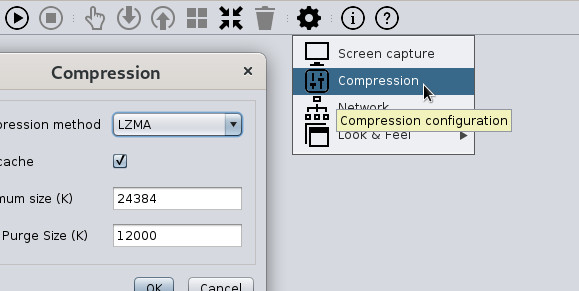
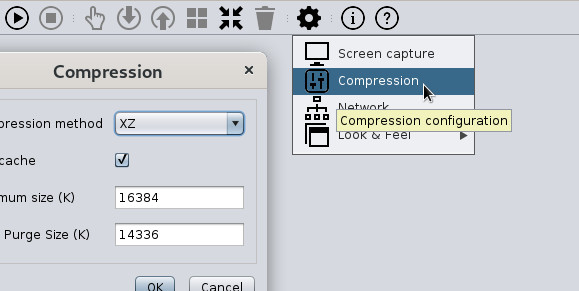
Updated documentation

diff --git a/docs/quickstart.html b/docs/quickstart.html
@@ -91,14 +91,14 @@
         <p>
             <img src="assistant_capture_settings.jpg" alt="Dayon! Assistant: Capture Settings">
         <p>
-            You can then setup the <b>compression</b> method; three methods are available: ZIP, BZIP2 and LZMA. BZIP2
-            and LZMA should give a better compression ratio but requires more CPU as they're much more complicated than
-            ZIP and are currently implemented in JAVA (ZIP is being implemented using some native code in the JDK).
+            You can then setup the <b>compression</b> method; two methods are available: ZIP and XZ. XZ
+            will obtain a (much) better compression ratio but requires more CPU and RAM as it's much more complicated
+            than ZIP and is implemented in JAVA (ZIP is being implemented using some native code in the JDK).
         <p>
             In addition a <b>cache</b> is used that allows for not sending many times the same bitmap as for example
             when opening and navigating menus (i.e., what's under the menus are not sent more than once). The screen is
-            divided into many tiles, each one being
-            possibly cached. You've to define the maximum number of tiles in the cache. Note that a tile is currently
+            divided into many tiles, each one being possibly cached.
+            You've to define the maximum number of tiles in the cache. Note that a tile is currently
             32x32 pixels of 256 levels, that is 1K.
         <p>
             <img src="assistant_compression_settings.jpg" alt="Dayon! Assistant : Compression Settings">

diff --git a/docs/de_support.html b/docs/de_support.html
@@ -25,9 +25,8 @@
             Posten Sie eine Frage oder erfassen Sie ein Issue auf <a href="https://github.com/retgal/dayon/issues">GitHub</a>.
         <h3>Bekannte Einschränkungen</h3>
         <ul>
-            <li>Auch in Version 1.10 ist die Tastaturunterstützung noch immer limitiert; Es gibt zzt. keine Möglichkeit
-                gewisse Tastenkombinationen wie etwa <code>Ctrl-Alt-Del</code> an den entfernten Computer zu
-                senden.
+            <li>Es existiert keine Möglichkeit gewisse Tastenkombinationen wie etwa <code>Ctrl-Alt-Del</code> an den entfernten
+                Computer zu senden.
             <li>Abhängig von der Anzeige-/Fenster-Manager und JDK Kombination, wird der Inhalt der
                 Zwischenablage nicht in die Zwischenablage des Empfängers kopiert. Das Einfügen (<code>Strg + v</code>)
                 funktioniert in diesen Fällen nicht.
@@ -79,7 +78,7 @@
                 kombiniert worden sind. Dies ist ein Anzeichen für ein zu kurzes Erfassungsintervall für die gewählte
                 Komprimierungsmethode. Am einfachsten das Erfassungsintervall erhöhen und/oder eine schnellere
                 Kompressionsmethode wählen.
-            <li>Speicherbelegun
+            <li>Speicherbelegung
             <li>Dauer der aktuellen oder der letzten Sitzung
         </ol>
     </div>

diff --git a/docs/fr_quickstart.html b/docs/fr_quickstart.html
@@ -94,10 +94,9 @@
         <p>
             <img src="assistant_capture_settings.jpg" alt="Dayon! Assistant: Capture Settings">
         <p>
-            Vous pouvez ensuite configuer la méthode de <b>compression</b>; trois méthodes sont disponibles: ZIP, BZIP2
-            and LZMA. BZIP2 et LZMA devraient donner les meilleurs résultats mais demandent plus de CPU; elles sont bien
-            plus compliquées que ZIP et sont de
-            plus implémentées en JAVA (ZIP étant implémenté en code natif dans le JDK).
+            Vous pouvez ensuite configuer la méthode de <b>compression</b>; deux méthodes sont disponibles: ZIP et XZ.
+            XZ va donner les meilleurs résultats mais demandent plus de CPU et memoire; elle est bien plus compliquées
+            que ZIP et est de plus implémentées en JAVA (ZIP étant implémenté en code natif dans le JDK).
         <p>
             En plus de la compression, un <b>cache</b> est utilisé pour ne pas envoyer plusieurs fois des images
             identiques comme par exemple, quand on ouvre et ferme un menu (i.e., l'image sous le menu n'a pas besoin

diff --git a/docs/de_quickstart.html b/docs/de_quickstart.html
@@ -95,10 +95,9 @@
         <p>
             <img src="assistant_capture_settings.jpg" alt="Dayon! Assistent: Capture Settings">
         <p>
-            Da kann die <b>Komprimierung</b> festgelegt werden; Es stehen drei verschiedene Methoden zur Auswahl: ZIP,
-            BZIP2 und LZMA. BZIP2 und LZMA sollten für einen besseren Komprimierungsgrad sorgen, benötigen aber etwas
-            mehr Rechenleistung (verursachen
-            erhöhte CPU Last), da ihre Algorithmen aufwändiger sind als ZIP und sie in JAVA implementiert sind. (während
+            Da kann die <b>Komprimierung</b> festgelegt werden; Es stehen zwei verschiedene Methoden zur Auswahl: ZIP
+            und XZ. XZ erzielt einen wesentlich besseren Komprimierungsgrad, benötigt aber mehr Rechenleistung (CPU Last
+            und Arbeitsspeicher), da der Algorithmus aufwändiger als ZIP ist und XZ in JAVA implementiert ist. (während
             ZIP via nativem Code vom JDK implementiert ist).
         <p>
             Zusätzlich wird ein <b>Puffer</b> (Cache) verwendet, um nicht immer aufs neue die selben, unveränderten

diff --git a/docs/fr_support.html b/docs/fr_support.html
@@ -25,8 +25,7 @@
             Vous pouvez poster une question ou ouvrir un issue sur <a href="https://github.com/retgal/dayon/issues">GitHub</a>.
         <h3>Problèmes Connus</h3>
         <ul>
-            <li>En version 1.10, le support du clavier est toujours limité; il n'y pas moyen pour le moment d'envoyer des
-                signaux et quelques combinaisons de touches ne sont pas supportées correctement (par example <code>Ctrl-Alt-Del</code>).
+            <li>Il n'y a actuellement aucun moyen d'envoyer certaines combinaisons clés à l'ordinateur assisté. (par example <code>Ctrl-Alt-Del</code>).
             <li>Selon le gestionnaire d'affichage / fenêtre et la combinaison JDK, le contenu du
                 presse-papiers n'est pas copié dans le presse-papiers des destinataires. Le collage (<code>Ctrl + v</code>) n'a donc aucun effet.
                 Dans la plupart des cas, le contenu a néanmoins été transféré - jetez un œil au répertoire <code>/tmp</code> et recherchez

diff --git a/docs/support.html b/docs/support.html
@@ -25,8 +25,7 @@
             Post your question or open a new issue on <a href="https://github.com/retgal/dayon/issues">GitHub</a>.
         <h3>Known Limitations</h3>
         <ul>
-            <li>As of version 1.10, the keyboard control support is still limited; there's currently no way to send some
-                signals and some key combinations are not properly supported (e.g., <code>Ctrl-Alt-Del</code>).
+            <li>There's currently no way to send certain key combinations to the assisted computer (e.g., <code>Ctrl-Alt-Del</code>).
             <li>Depending on the display/windows manager and JDK combination, the clipboard content
                 does not get copied into the recipients clipboard. So pasting (<code>Ctrl + v</code>) does have no effect.<br>
                 In most cases the content is nonetheless transferred - take a look at the <code>/tmp</code> directory and
